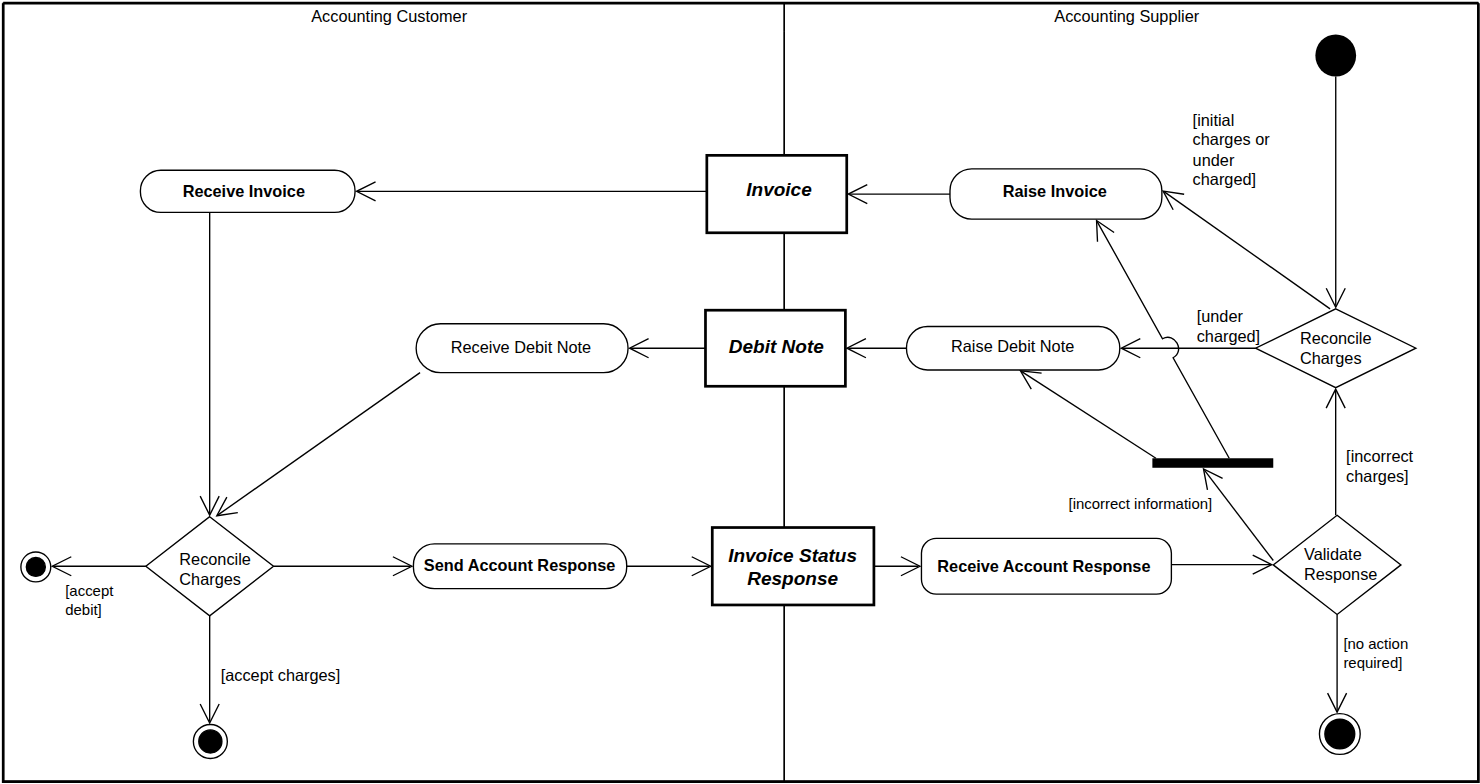
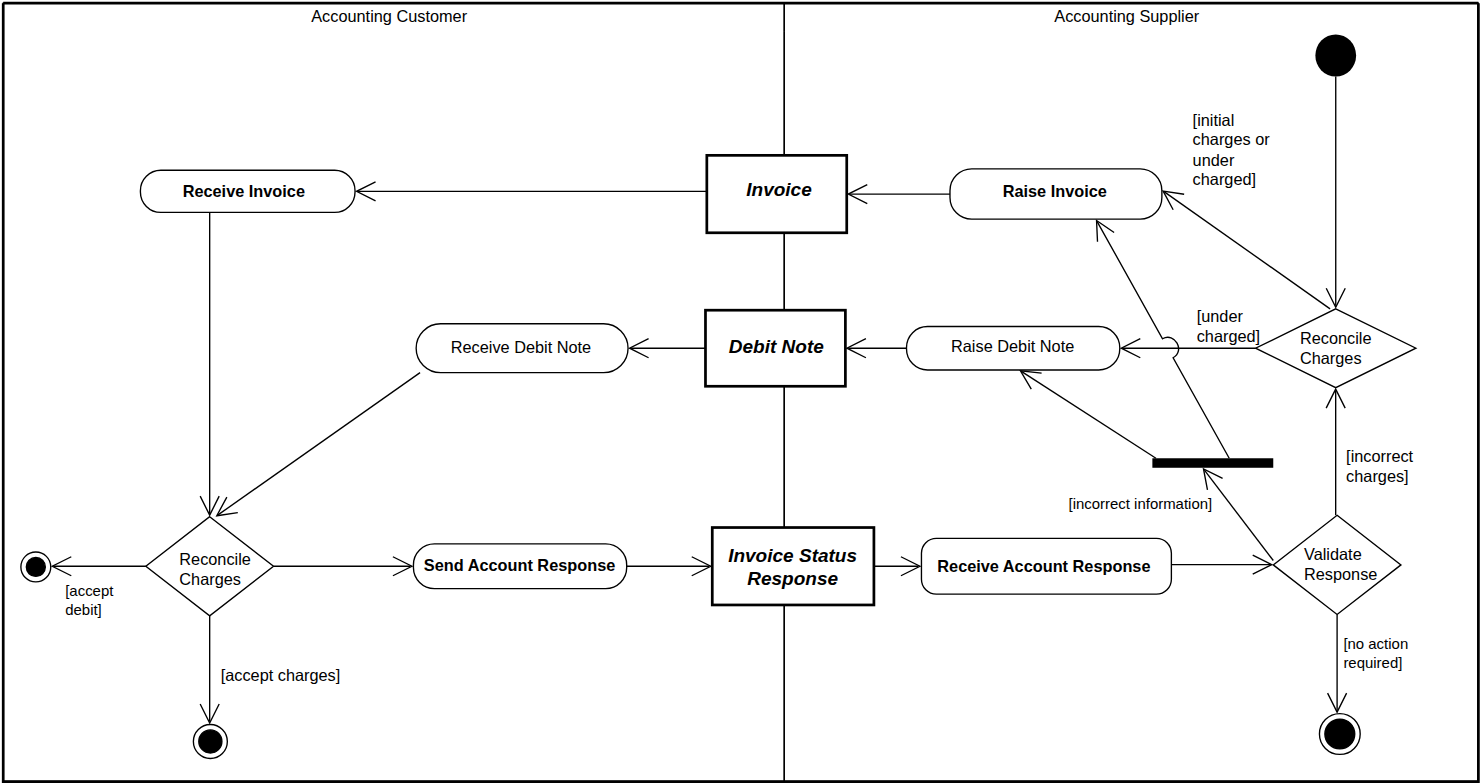
draw.io PoC: render the drawing onto the SVG render's own canvas
At natural scale the draw.io render could come out a pixel taller than the
SVG's (36 figures): the canvas is now the SVG render's own width and
height, and the drawing is scaled by its width / the drawing's own. Frame
lines of the two renders now agree within 1.5 px in every figure.

Claude-Session: https://claude.ai/code/session_01NxBbuHXB7DFQ6uidHnJMET

diff --git a/poc-drawio/render-drawio.js b/poc-drawio/render-drawio.js
@@ -6,9 +6,9 @@
 // ~/.cache/ubl-drawio-viewer) and loaded into the same Chromium that renders
 // the SVGs (tools/render-svg.js). The model is drawn at scale 1 with its
 // frame where the SVG has it, so the PNG lines up with the SVG's render
-// pixel for pixel: the canvas is the figure's own width and height. A figure
-// drawn at its natural scale is drawn at <scale> (1480 / its width), so it
-// still lines up with the SVG's render.
+// pixel for pixel: the canvas is <width> x <height>, the size of the SVG's
+// render. A figure drawn at its natural scale is drawn at <scale> (the SVG's
+// width / its own), so it lines up with the SVG's render.
 const { chromium } = require('playwright');
 const fs = require('fs'), path = require('path'), os = require('os'), https = require('https');
 const CHROME = process.env.CHROMIUM_PATH || '/opt/pw-browsers/chromium-1194/chrome-linux/chrome';
@@ -36,7 +36,8 @@ async function viewer() {
 (async () => {
   const [inp, out, W, H, SC] = process.argv.slice(2);
   const s = +(SC || 1);
-  const w = Math.ceil(+W * s), h = Math.ceil(+H * s);
+  // rounded as tools/render-svg.js rounds the SVG's height, so the two match
+  const w = Math.round(+W), h = Math.round(+H);
   const js = await viewer();
   const browser = await chromium.launch({ executablePath: CHROME });
   const page = await browser.newPage({ viewport: { width: w, height: h } });

diff --git a/poc-drawio/README.md b/poc-drawio/README.md
@@ -97,8 +97,11 @@ fixed, not measured: draw.io's own 1 (left out of the style) for every line,
 2 for a document and the frame (`WEIGHT` in the writer). The Tender figures,
 drawn with heavy lines, change most; mean red rose from 4.57 % to 5.82 %.
 
-The comparison stays at 1480 px: the SVG is rendered at 1480 px wide and the
-drawing at 1480 / its width, so they line up pixel for pixel. Text drawn at
+The comparison stays at 1480 px: the SVG is rendered at 1480 px wide, and the
+drawing onto exactly that render's canvas (its width and height, as
+`tools/render-svg.js` rounds them), at the SVG's width / its own, so they are
+the same size and line up: the frame lines within 1.5 px in every figure
+(whole natural pixels, scaled up). Text drawn at
 about 12 px and scaled up lands 1-3 px from the SVG's (font rounding at the
 small size), which the comparison counts; mean red rose from 4.08 % to
 4.57 %. The end states improved (Tender Award Notification: blue 870 to 179
